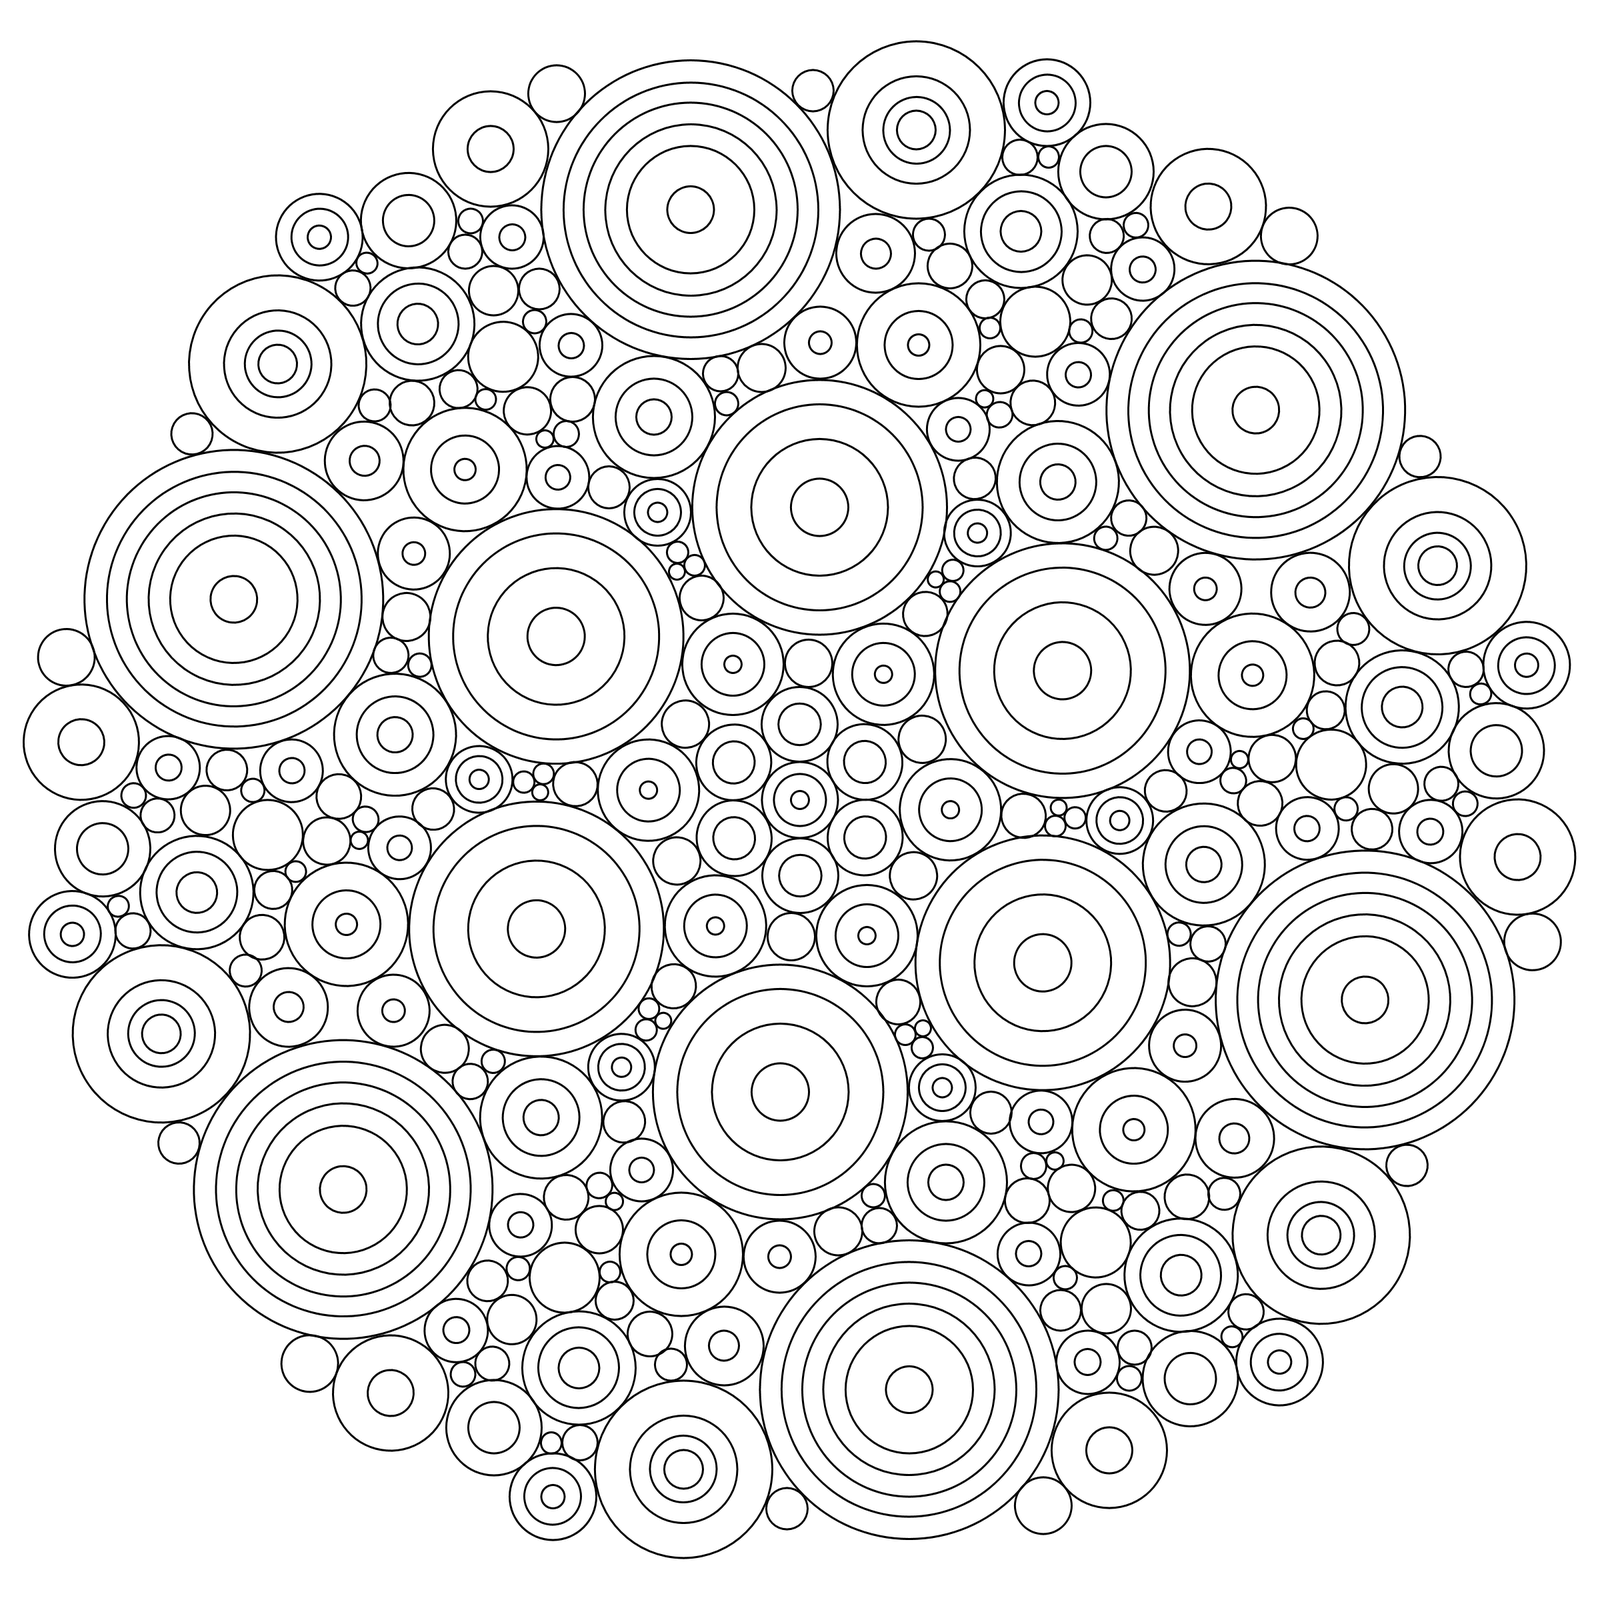
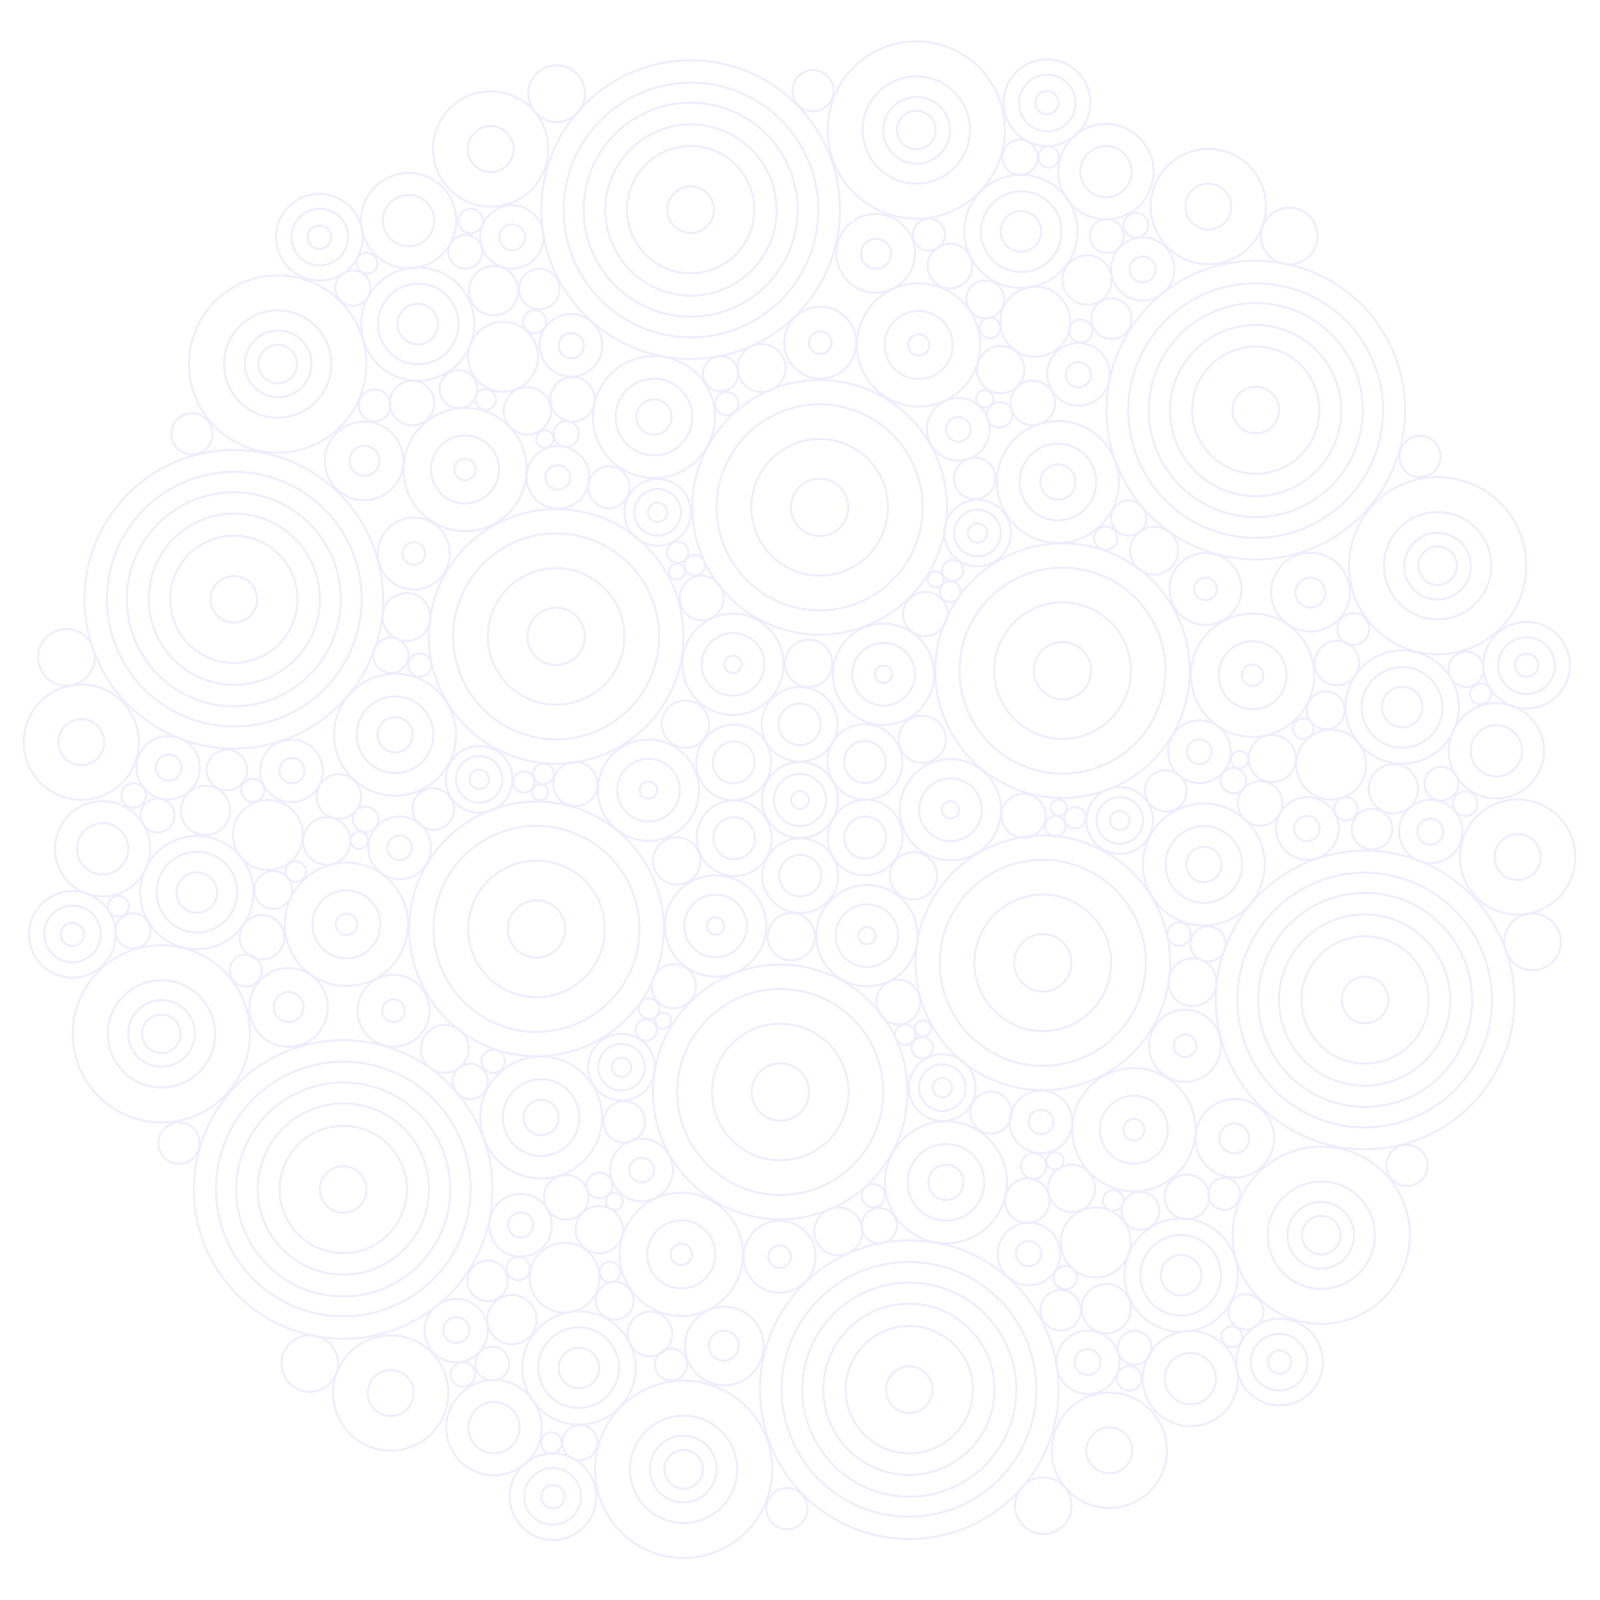
update portfolio6

diff --git a/assets/css/styles.css b/assets/css/styles.css
@@ -22,10 +22,10 @@ green #28B829
 
 /** html elements **/
 body {
-    /* background-image: url('../../assets/images/bg.png');
+    background-image: url('../../assets/images/bg.png');
     background-repeat: no-repeat;
-    background-position: -39px 199px;
-    background-size: 80%; */
+    background-position: -399px -100px;
+    background-size: 80%;
     background-color: var(--color-white);
     color: var(--color-black);
     font-family: var(--font-body);
